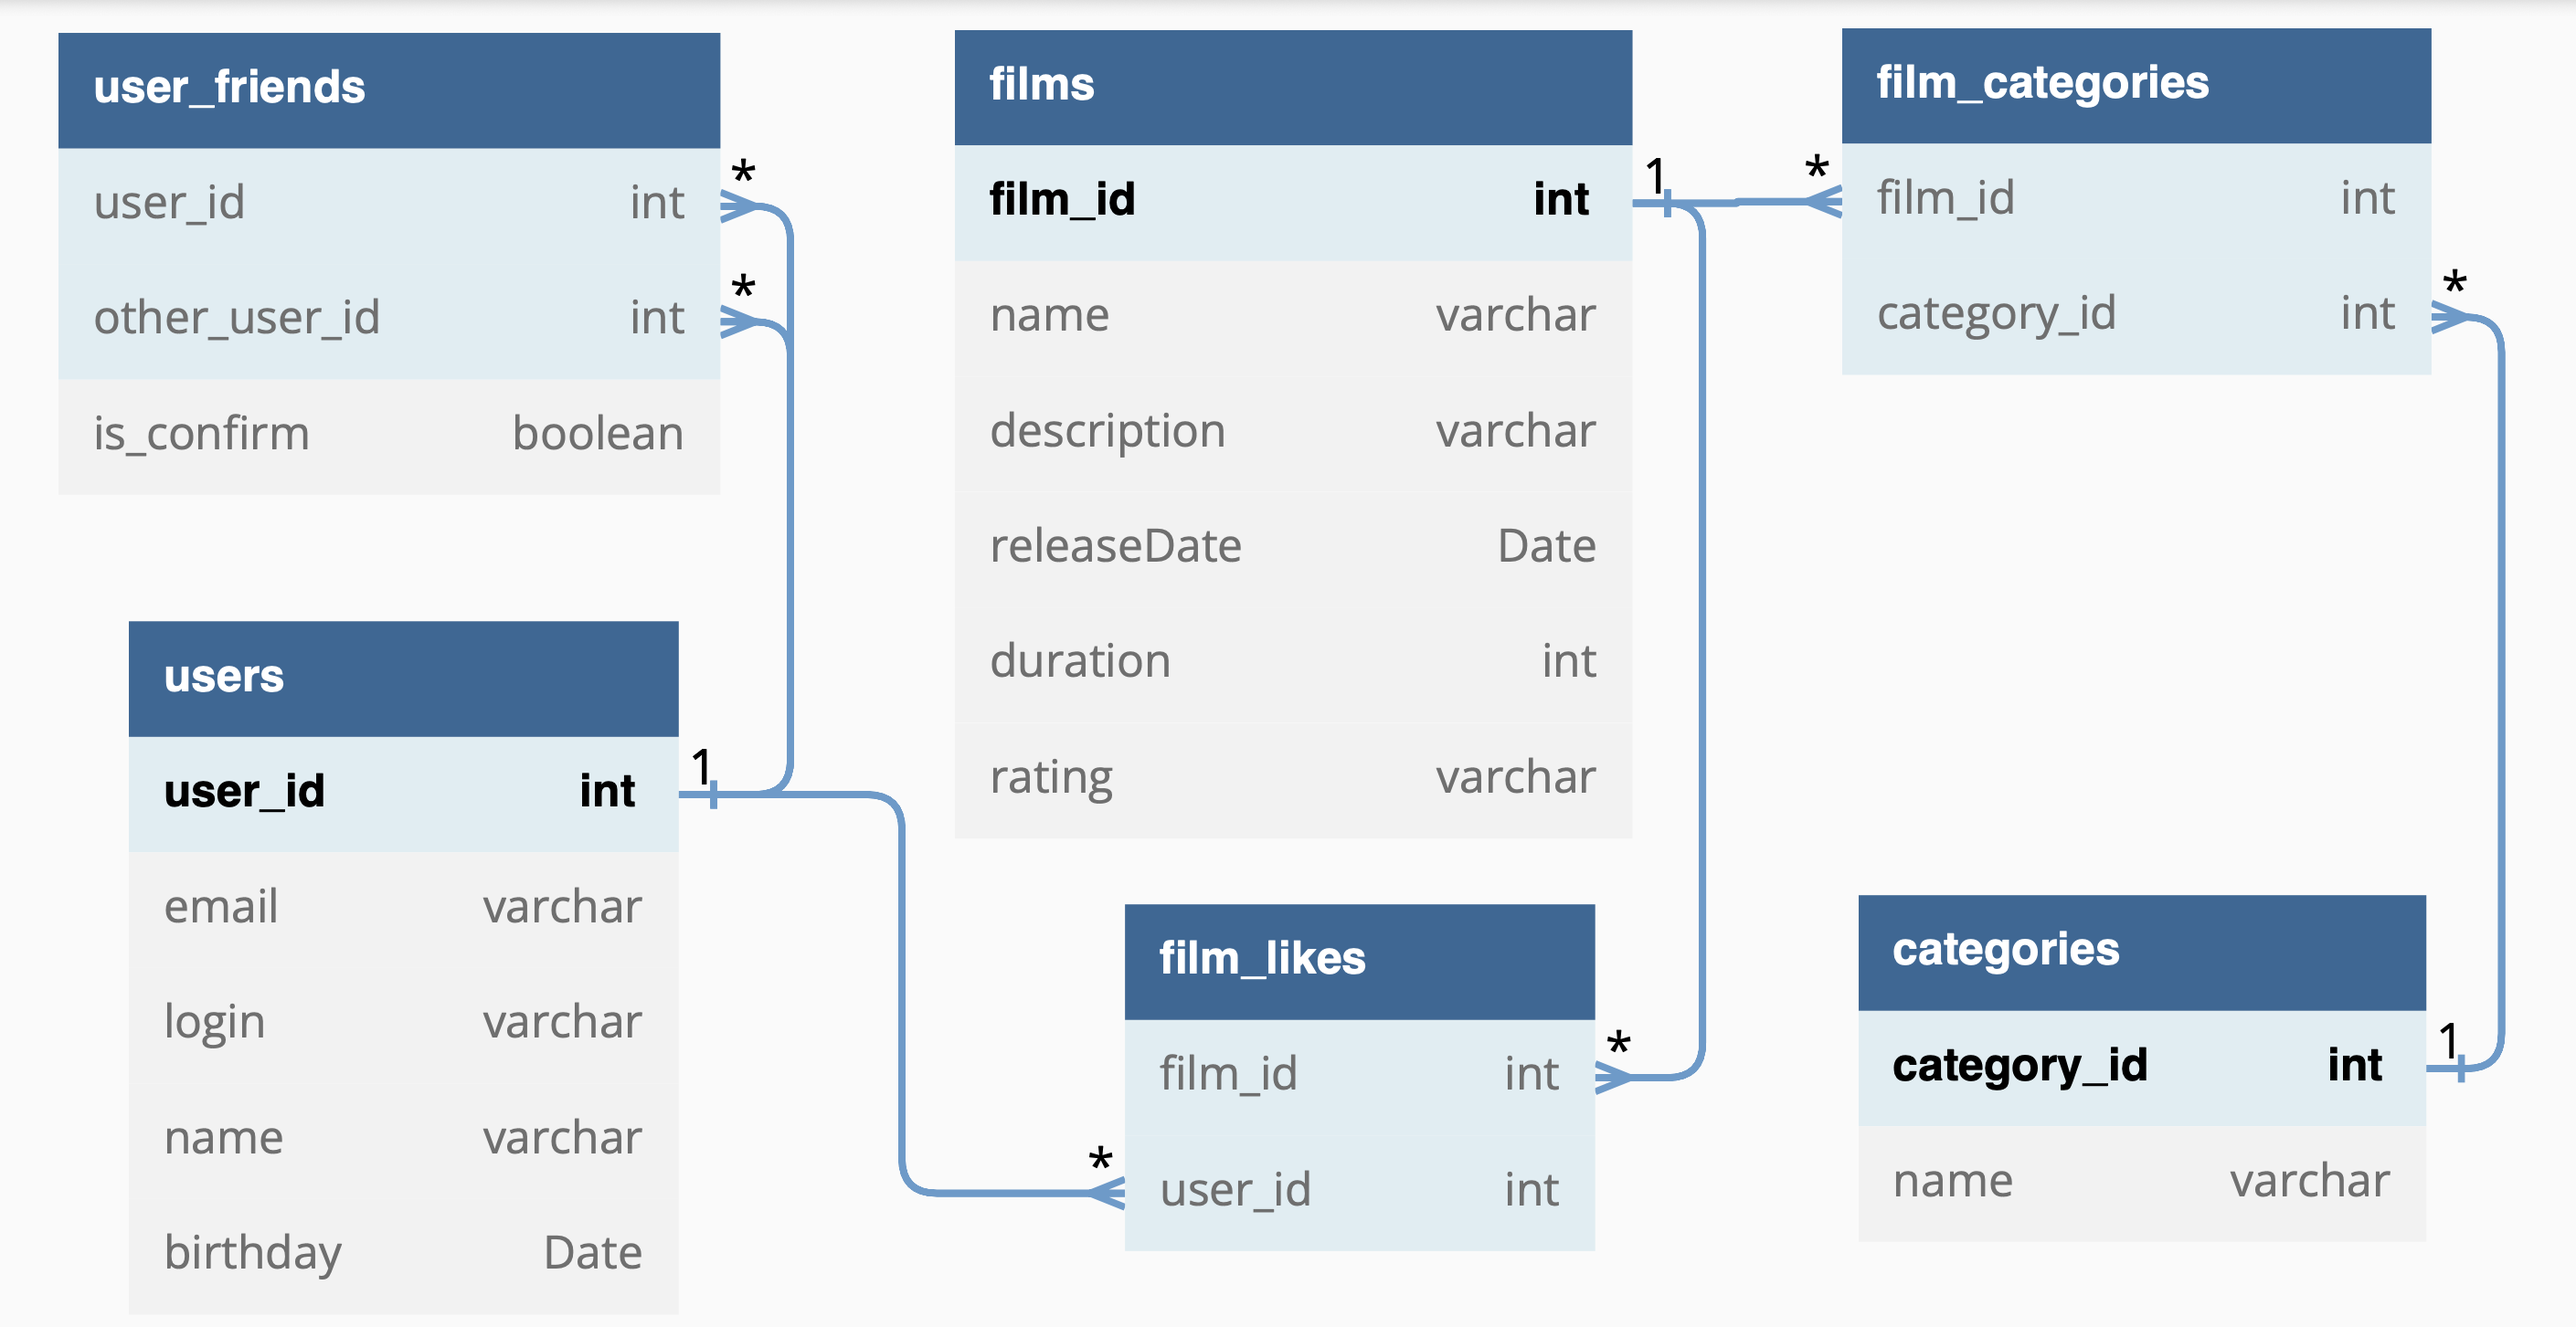
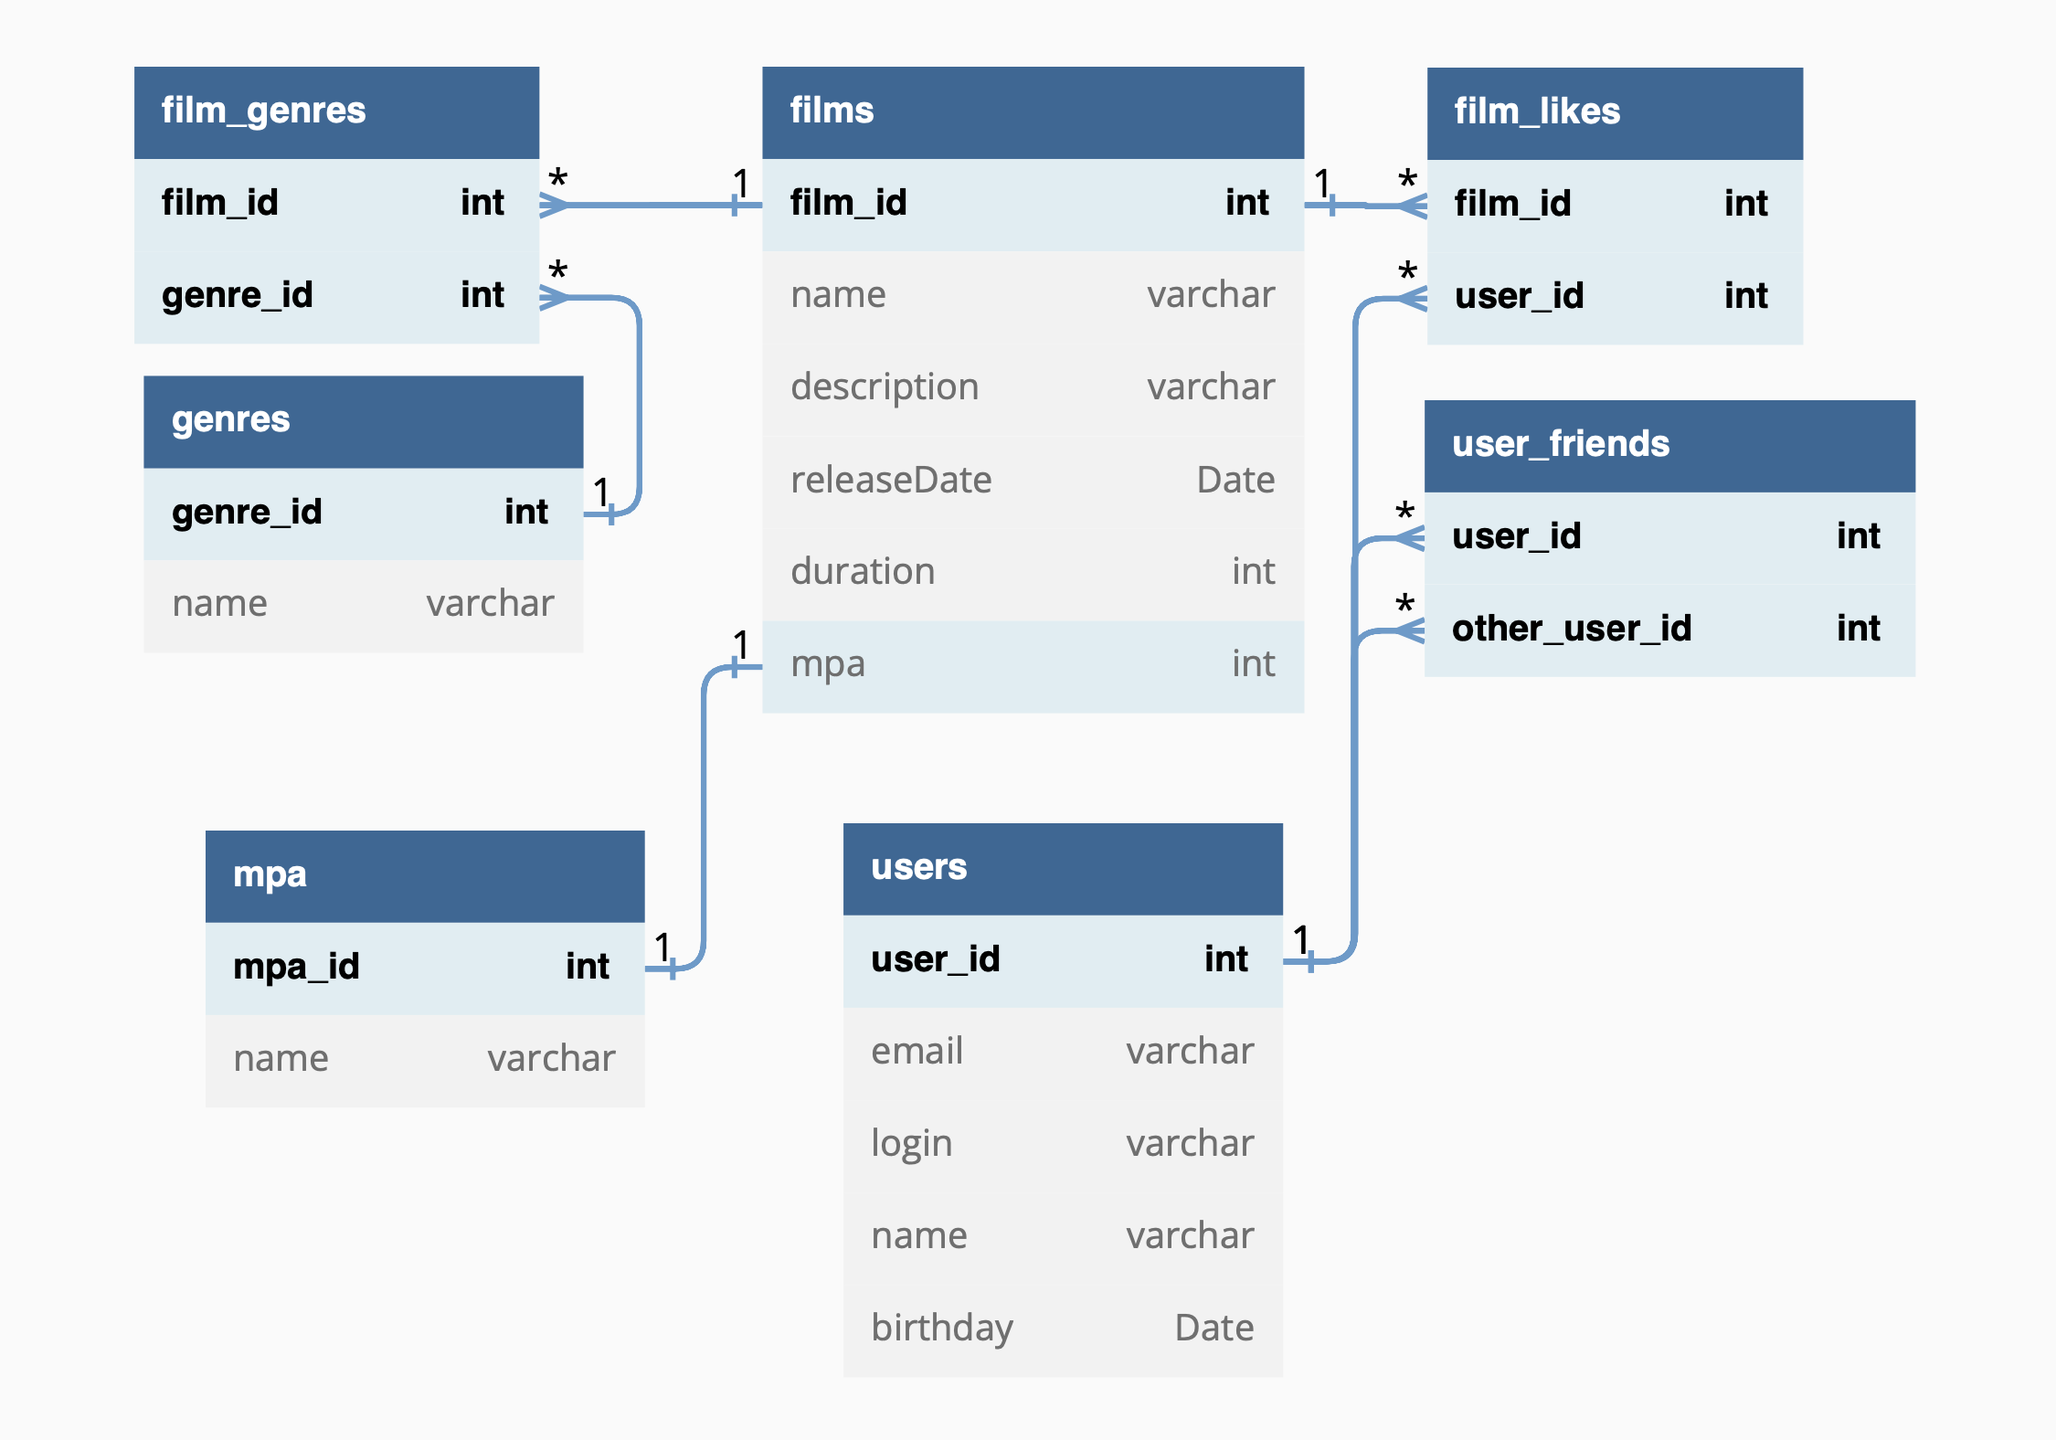
style: доработать README-файл

diff --git a/README.md b/README.md
@@ -1,6 +1,12 @@
 # java-filmorate
 [//]: # (Template repository for Filmorate project.)
-###### ER-диаграмма, описывающая связь таблиц в БД прлиложения *Filmorate*
+##### ER-диаграмма, описывающая связь таблиц в БД прлиложения *Filmorate*
+###### Таблица *"FILMS"* имеет две соединительные таблицы: *"FILM-GENRES"* и *"FILM-LIKES"*. В рамках реализации связи 
+###### "многие-ко-многим" таблица *"FILMS"* имеет вид связи "один-ко-многи" к вышеуказанными тоблицами. Также данная 
+###### таблица имеет вид связи "один-к-одному" к таблице *"MPA"*, которая имеет видя свяи "один-ко-многим" к таблице 
+###### *"FILM-GENRES"*.
+###### Таблица *"USERS"* также имеет две соединительные таблицы: *"USER-FRIENDS"* и *"FILM-LIKES"*. В рамках реализации
+###### связи "многие-ко-многим" таблица *"USERS"* имеет вид связи "один-ко-многи" к вышеуказанными тоблицами.
 <img src="src/main/resources/static/ER.png">
 
 ###### Примеры CRUD-запросов.
